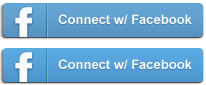
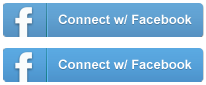
Unlogged User panel facebook btn
Login paneline facebook butonu eklendi..

Changed region(s): [[0.0, 0.0471, 0.9903, 0.4706], [0.0, 0.5882, 0.9903, 0.9882]]

diff --git a/app/webroot/css/userpanel.css b/app/webroot/css/userpanel.css
@@ -11,11 +11,11 @@
 .userpanel a {display:block; height:15px; font-family:Arial; color:White; text-decoration:none;}
 .userpanel a.rememberme{display:inline;font-size:13px;}
 .userpanel a:hover{text-decoration:underline;}
-.remember{font-size:13px; font-weight:500; margin:20px 25px; padding-left:20px; background-image:url(../img/t_remember_me.png); background-position:0 0; background-repeat:no-repeat;}
+.remember{font-size:13px; font-weight:500; margin:10px 25px; padding-left:20px; background-image:url(../img/t_remember_me.png); background-position:0 0; background-repeat:no-repeat;}
 .remembertick{font-size:13px; font-weight:500; margin:20px 25px; padding-left:20px; background-image:url(../img/t_remember_me.png); background-position:0 -15px; background-repeat:no-repeat;}
 .loginbtn{display:block; width:147px; height:38px; margin-left:20px; background-image:url(../img/t_login_btn.png);}
 .loginbtn:hover{cursor:pointer;}
-.forget{margin-top:15px; margin-left:25px; margin-right:25px; font-size:13px; font-weight:500;}
+.forget{margin-top:5px; margin-left:25px; margin-right:25px; font-size:13px; font-weight:500;}
 .bemember{margin-top:10px; margin-left:25px; margin-right:25px; font-size:13px; font-weight:500;}
 
 /* User Control Panel */

diff --git a/app/webroot/css/header.css b/app/webroot/css/header.css
@@ -53,3 +53,21 @@ background-position: 0 -45px;
 width:206px;
 height:40px;
 }	
+
+#fbLoginun{
+display: block;
+background:url(../img/loginwithFb.png);
+background-position: 0 0; width: 206px; height: 40px; 
+width:206px;
+height:40px;
+margin-left:23px;
+}	
+
+#fbLoginun:hover{
+display: block;
+background:url(../img/loginwithFb.png);
+background-position: 0 -45px;
+width:206px;
+height:40px;
+margin-left:23px;
+}
